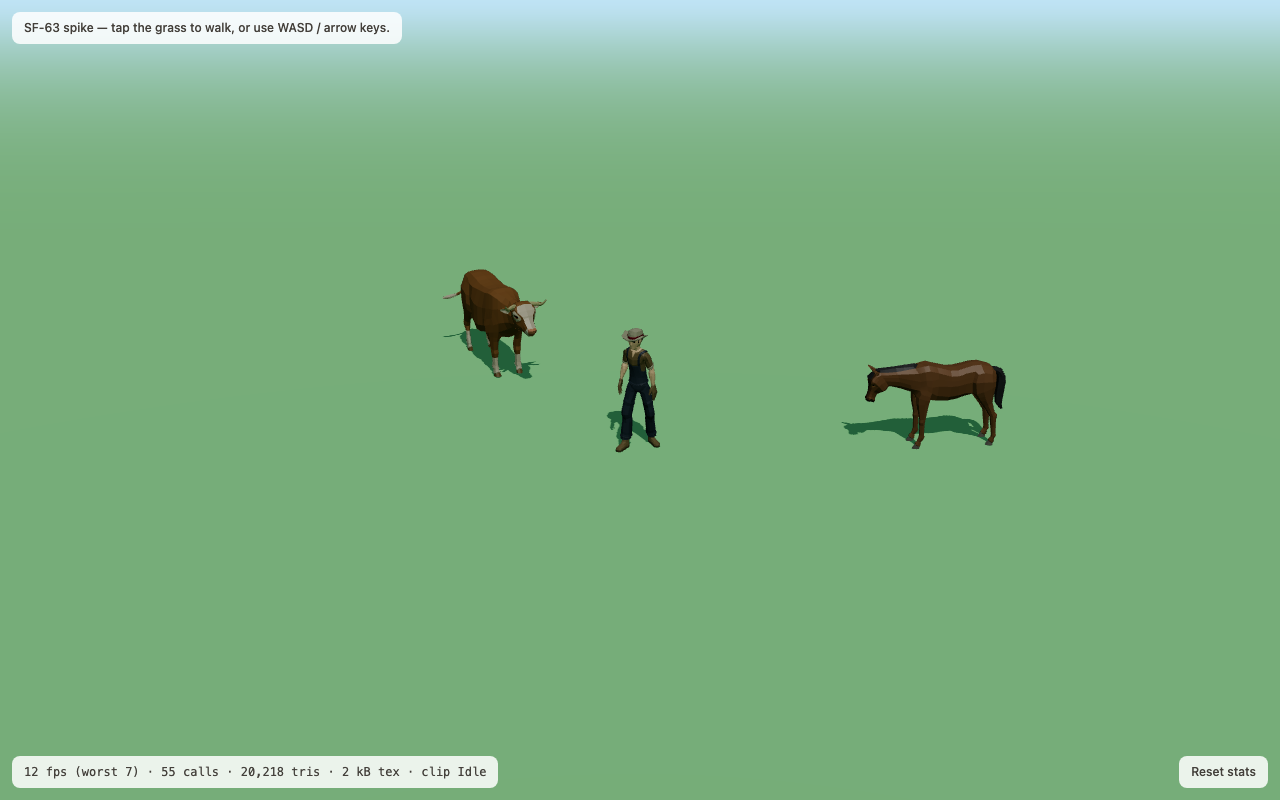
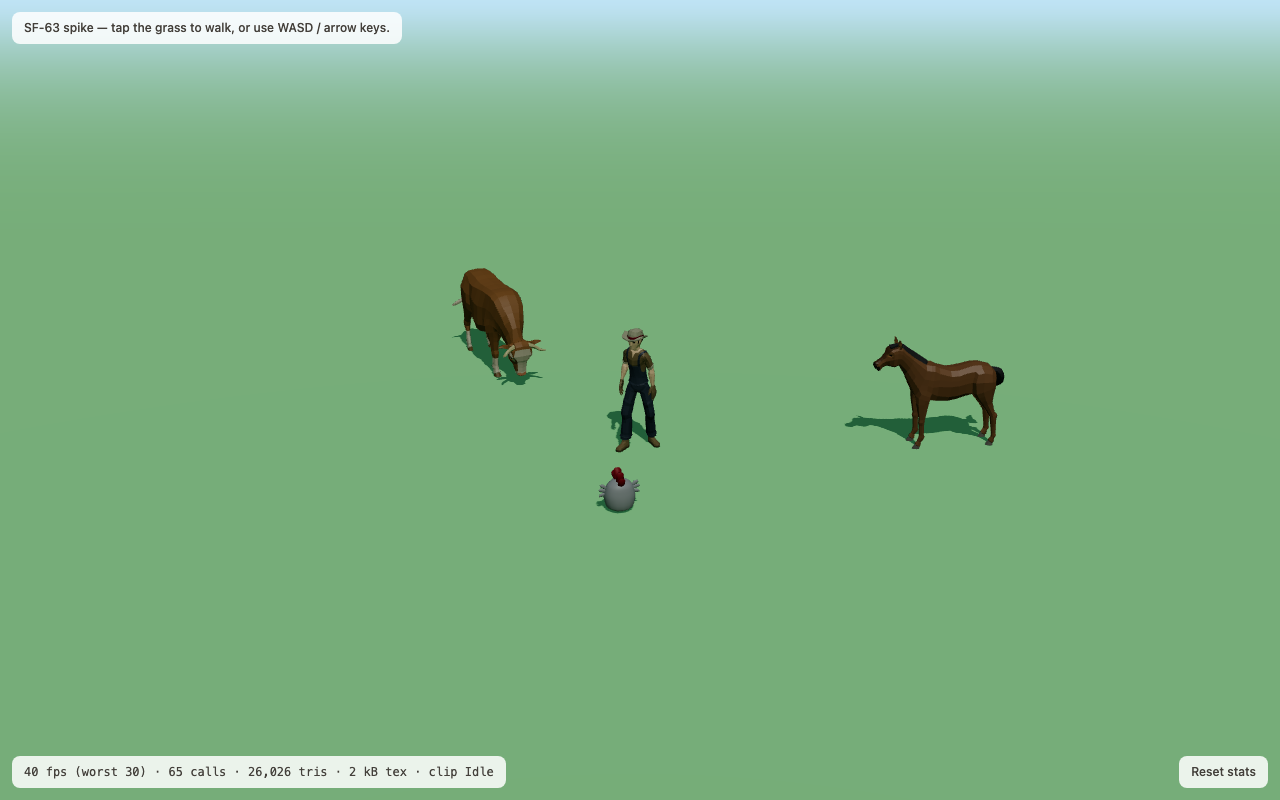
spike(SF-64): add a chunky Quaternius chicken as the style comparison
The cow and horse are from Quaternius' naturalistic line; the chicken is from
its chunky, big-headed one — the style art-direction §3 actually describes.
Having both in one frame at the §2 camera is the evidence ADR-0003 needs, and
it surfaced three things worth recording: the two lines cannot be mixed under
the "one pack only" rule, the chunky chicken is in no pack listed on
quaternius.com, and the poly.pizza mirror's conversion mangled its base colours
and left metallicFactor at 0.4 (near-black with no environment map).

Grazer now takes its clip names as a prop: the packs use three different
conventions ("Idle", "Eating", "CharacterArmature|Idle").

Claude-Session: https://claude.ai/code/session_01XoFymmWrofKwSVoWC8EcRW

diff --git a/apps/web/src/spike/Spike3dScene.tsx b/apps/web/src/spike/Spike3dScene.tsx
@@ -15,7 +15,8 @@ const GROUND_SIZE = 200
 const FOG_NEAR = 25
 const FOG_FAR = 70
 
-/** Art-direction §2 scale rule: cow 1.3 units, horse a shade taller. */
+/** Art-direction §2 scale rule: chicken 0.5, cow 1.3, horse a shade taller. */
+const CHICKEN_HEIGHT = 0.5
 const COW_HEIGHT = 1.3
 const HORSE_HEIGHT = 1.5
 
@@ -23,7 +24,12 @@ const MODELS = {
   keeper: '/spike/keeper.glb',
   cow: '/spike/cow.glb',
   horse: '/spike/horse.glb',
+  chicken: '/spike/chicken.glb',
 } as const
+
+const NATURALISTIC_CLIPS = { resting: 'Idle', busy: 'Eating' } as const
+/** The chunky "cute" line prefixes every clip with its armature's name. */
+const CUTE_CLIPS = { resting: 'CharacterArmature|Idle', busy: 'CharacterArmature|Walk' } as const
 
 function FixedCamera() {
   const camera = useThree((state) => state.camera)
@@ -78,6 +84,7 @@ export function Spike3dScene({ session }: { session: SpikeSession }) {
           position={[-3.5, 0, -1]}
           rotationY={1.1}
           phaseSeconds={0}
+          clips={NATURALISTIC_CLIPS}
         />
         <Grazer
           url={MODELS.horse}
@@ -86,6 +93,18 @@ export function Spike3dScene({ session }: { session: SpikeSession }) {
           position={[3.2, 0, -2.4]}
           rotationY={-0.8}
           phaseSeconds={2.5}
+          clips={NATURALISTIC_CLIPS}
+        />
+        {/* Deliberately from Quaternius' other, chunky line: the ADR-0003
+            style comparison is the point of having it in frame. */}
+        <Grazer
+          url={MODELS.chicken}
+          name="Chicken"
+          targetHeight={CHICKEN_HEIGHT}
+          position={[0.9, 0, 1.6]}
+          rotationY={-2.2}
+          phaseSeconds={1.2}
+          clips={CUTE_CLIPS}
         />
       </Suspense>
       <MeasurementPump session={session} />

diff --git a/apps/web/src/spike/Grazer.tsx b/apps/web/src/spike/Grazer.tsx
@@ -19,14 +19,20 @@ type GrazerProps = {
   rotationY: number
   /** Offset into the loop so two animals are not in lockstep. */
   phaseSeconds: number
+  /**
+   * Clip names as the model file spells them. Quaternius uses three different
+   * conventions across its packs ("Idle", "Eating", "CharacterArmature|Idle"),
+   * which is why these are props rather than constants.
+   */
+  clips: { resting: string; busy: string }
 }
 
-/** A standing farm animal that crossfades idle ↔ eating on a timer. */
-export function Grazer({ url, name, targetHeight, position, rotationY, phaseSeconds }: GrazerProps) {
+/** A standing farm animal that crossfades between its two clips on a timer. */
+export function Grazer({ url, name, targetHeight, position, rotationY, phaseSeconds, clips }: GrazerProps) {
   const elapsed = useRef(phaseSeconds)
   const readClip = useCallback(
-    () => (elapsed.current % (IDLE_SECONDS + EATING_SECONDS) < IDLE_SECONDS ? 'Idle' : 'Eating'),
-    [],
+    () => (elapsed.current % (IDLE_SECONDS + EATING_SECONDS) < IDLE_SECONDS ? clips.resting : clips.busy),
+    [clips],
   )
 
   useFrame((_, delta) => {

diff --git a/apps/web/e2e/spike-3d.spec.ts b/apps/web/e2e/spike-3d.spec.ts
@@ -46,6 +46,7 @@ test.describe('SF-63 — 3D foundation spike', () => {
     expect(Number(measured.silhouetteKeeper)).toBeGreaterThan(0)
     expect(Number(measured.silhouetteCow)).toBeGreaterThan(0)
     expect(Number(measured.silhouetteHorse)).toBeGreaterThan(0)
+    expect(Number(measured.silhouetteChicken)).toBeGreaterThan(0)
   })
 
   test('tapping the ground walks the keeper there and crossfades idle → walk → idle', async ({ page }) => {

diff --git a/apps/web/public/spike/LICENSES.md b/apps/web/public/spike/LICENSES.md
@@ -14,6 +14,20 @@ on <https://quaternius.com>.
 | `cow.glb` | `Cow.gltf` (glTF) | Ultimate Animated Animal Pack — July 2021 | <https://quaternius.com/packs/ultimateanimatedanimals.html> | `https://drive.google.com/drive/folders/1uJ3N5HfB7jKTseJUNQr3N4YaN0UuEtHk` |
 | `horse.glb` | `Horse.gltf` (glTF) | Ultimate Animated Animal Pack — July 2021 | same as above | same as above |
 
+`chicken.glb` is the exception and is deliberately from a **different Quaternius
+line** — the chunky, big-headed one that art-direction §3 actually describes. It
+is in the spike as the style comparison, not as a candidate asset:
+
+| File | Model | Source | Licence shown |
+| --- | --- | --- | --- |
+| `chicken.glb` | "Chicken" by Quaternius, dated 23 Oct 2022, tagged Animated | poly.pizza mirror <https://poly.pizza/m/ineV9pU5VL> → `https://static.poly.pizza/a0001762-9352-48c3-9abd-be91e42db114.glb` | Public Domain (CC0), author Quaternius |
+
+Two caveats recorded in ADR-0003: this model is **not in any pack listed on
+quaternius.com**, and the mirror's conversion mangled its base colours (body
+`baseColorFactor` 0.289 linear — mid grey — where the vendor's own render is
+white) and left `metallicFactor` at 0.4. That is why it renders grey in the
+screenshots.
+
 ## Licence
 
 Both pack pages carry a **CC0** badge linking
@@ -49,3 +63,8 @@ Source `.gltf` (single file, embedded buffers) → `.glb`, by:
 Result: 3.1 MB / 3.6 MB / 3.0 MB of `.gltf` → 169 kB / 186 kB / 249 kB of `.glb`.
 Geometry is meshopt-compressed, so the loader must call
 `setMeshoptDecoder(MeshoptDecoder)` (see `src/spike/use-animated-gltf.ts`).
+
+`chicken.glb` took a shorter path — `gltf-transform meshopt` only (140 kB →
+42 kB), then `metallicFactor` set to 0 on every material. The `palette` pass in
+`optimize` turned its five flat colours to mud, and at `metallicFactor` 0.4 a
+scene with no environment map renders it near-black.
